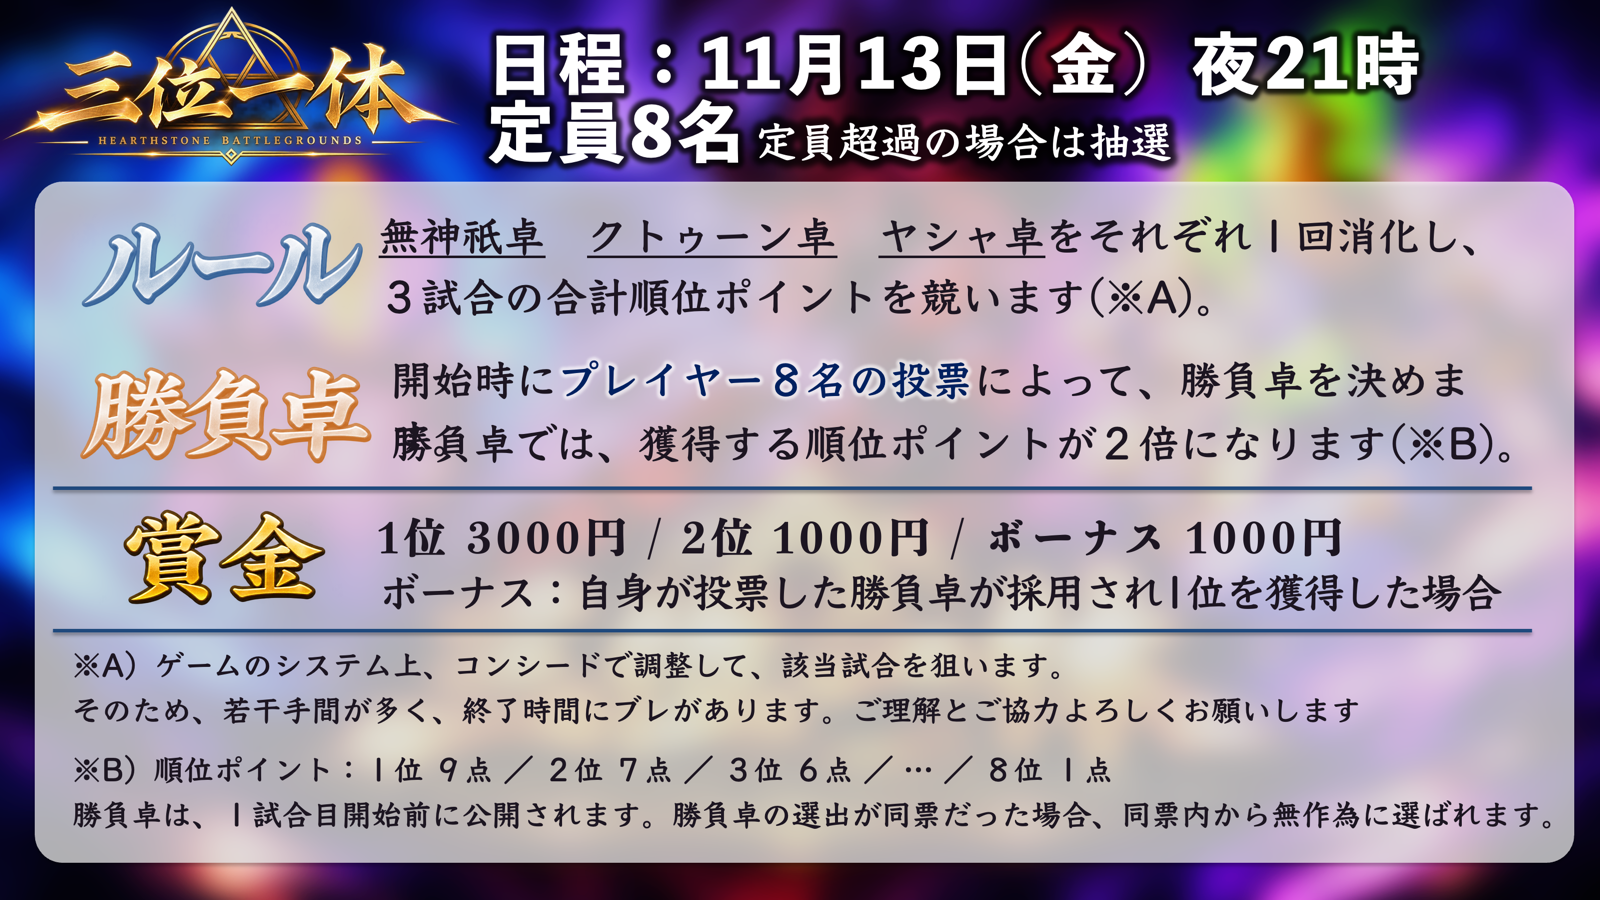
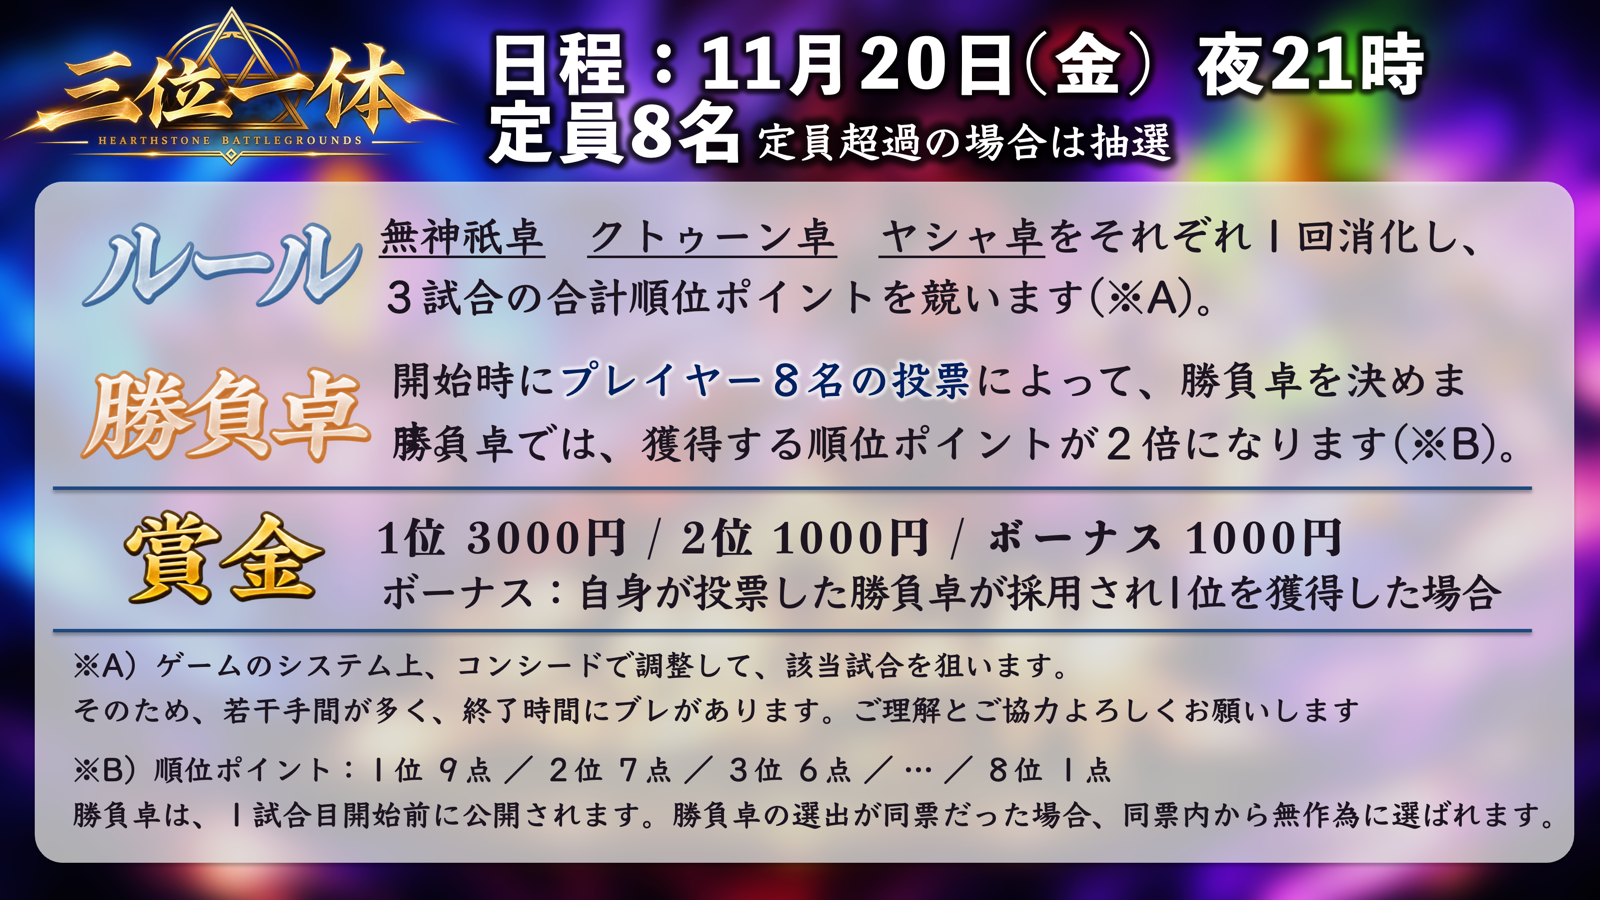
Refresh private Trinity flyers and simplify page design

diff --git a/drafts/tournaments/sanmi-ittai/index.html b/drafts/tournaments/sanmi-ittai/index.html
@@ -1,12 +1,12 @@
 <!doctype html>
-<html lang="ja"><head><meta charset="utf-8"><meta name="viewport" content="width=device-width,initial-scale=1"><title>三位一体 | Avenge Hub</title><meta name="description" content="2026年11月20日21時開催。8名で3試合の合計順位ポイントを競うバトルグラウンド大会。"><meta property="og:title" content="三位一体 | Avenge Hub"><meta property="og:image" content="https://stuntdrakesavenge.pages.dev/tournaments/sanmi-ittai/banner.png"><meta property="og:type" content="website"><meta name="twitter:card" content="summary_large_image"><link rel="stylesheet" href="../../common.css"><link rel="stylesheet" href="style.css?v=20261108-trinity-header-v2"><link rel="icon" href="/sutantic.png"></head>
+<html lang="ja"><head><meta charset="utf-8"><meta name="viewport" content="width=device-width,initial-scale=1"><title>三位一体 | Avenge Hub</title><meta name="description" content="2026年11月20日21時開催。8名で3試合の合計順位ポイントを競うバトルグラウンド大会。"><meta property="og:title" content="三位一体 | Avenge Hub"><meta property="og:image" content="https://stuntdrakesavenge.pages.dev/tournaments/sanmi-ittai/banner.png"><meta property="og:type" content="website"><meta name="twitter:card" content="summary_large_image"><link rel="stylesheet" href="../../common.css"><link rel="stylesheet" href="style.css?v=20261108-trinity-refined"><link rel="icon" href="/sutantic.png"></head>
 <body><main class="page-shell"><a class="back-link" href="/">メインページに戻る</a>
 <header class="trinity-hero"><img src="header.png" width="961" height="321" alt="三位一体 — Hearthstone Battlegrounds"><h1 class="sr-title">三位一体</h1></header>
 <section class="score-card"><h2 class="section-title">大会概要</h2><div class="section-body"><dl class="facts"><div><dt>開催日時</dt><dd>2026年11月20日（金）21:00</dd></div><div><dt>定員</dt><dd>8名 <small>定員超過の場合は抽選</small></dd></div></dl><a class="entry-button" href="/scrims/">参加申込フォームへ →</a></div></section>
 <section class="score-card"><h2 class="section-title">ルール</h2><div class="section-body"><div class="rule-columns"><article><h3>3試合の合計ポイントで勝負</h3><p>無神祇卓・クトゥーン卓・ヤシャ卓をそれぞれ1回行い、3試合の合計順位ポイントを競います。</p></article><article><h3>投票で決まる「勝負卓」</h3><p>開始時にプレイヤー8名の投票で勝負卓を決定します。勝負卓では、獲得する順位ポイントが<strong>2倍</strong>になります。</p><p>勝負卓は1試合目の開始前に公開。同票の場合は、同票の候補から無作為に選ばれます。</p></article></div><h3>順位ポイント</h3><div class="points-wrap"><table><thead><tr><th>順位</th><th>1位</th><th>2位</th><th>3位</th><th>4位</th><th>5位</th><th>6位</th><th>7位</th><th>8位</th></tr></thead><tbody><tr><th>ポイント</th><td>9</td><td>7</td><td>6</td><td>5</td><td>4</td><td>3</td><td>2</td><td>1</td></tr></tbody></table></div><p class="note">ゲームのシステム上、コンシードで調整して該当する試合を行います。そのため通常より手順が多く、終了時間が前後する場合があります。ご理解とご協力をお願いいたします。</p></div></section>
 <section class="score-card"><h2 class="section-title">賞金</h2><div class="section-body"><dl class="prizes"><div><dt>1位</dt><dd>3,000<span>円</span></dd></div><div><dt>2位</dt><dd>1,000<span>円</span></dd></div><div><dt>ボーナス</dt><dd>1,000<span>円</span></dd></div></dl><p>ボーナスは、自身が投票した勝負卓が採用され、その卓で1位を獲得した場合に贈られます。</p></div></section>
 <section class="score-card"><h2 class="section-title">参加方法</h2><div class="section-body"><p>当サイトの「スクリム」申込フォームからお申し込みください。本人確認のため、Battle.netまたはXのDMでご連絡する場合があります。</p><a class="entry-button" href="/scrims/">スクリム申込フォームへ →</a></div></section>
-<section class="score-card"><h2 class="section-title">大会フライヤー</h2><div class="section-body flyers"><img src="rules.png" alt="三位一体のルールと賞金" width="1600" height="900" loading="lazy"><img src="entry.png" alt="三位一体のエントリー方法。画像内の申込画面は操作例です。開催日は11月20日です。" width="1600" height="900" loading="lazy"><p class="note">開催日時は2026年11月20日（金）21:00に変更となりました。フライヤー内の11月13日・申込画面内の11月15日は変更前の表記です。</p></div></section>
+<section class="score-card"><h2 class="section-title">大会フライヤー</h2><div class="section-body flyers"><img src="rules.png?v=20261108" alt="三位一体のルールと賞金" width="1600" height="900" loading="lazy"><img src="entry.png?v=20261108" alt="三位一体のエントリー方法。画像内の申込画面は操作例です。開催日は11月20日です。" width="1600" height="900" loading="lazy"><p class="note">申込画面の画像内にある11月15日は操作例です。開催日時は2026年11月20日（金）21:00です。</p></div></section>
 <footer class="footer-note" data-page-updated="2026-11-08">
   <p>Stuntdrake's Avenge! / Tournament info by Stuntdrake</p>
   <p class="footer-updated">最終更新：<time datetime="2026-11-08">2026年11月8日</time></p>

diff --git a/drafts/tournaments/sanmi-ittai/style.css b/drafts/tournaments/sanmi-ittai/style.css
@@ -4,3 +4,20 @@
 .trinity-hero img{position:static;display:block;width:100%;height:auto;object-fit:contain}
 .trinity-hero::before,.trinity-hero::after{content:none}
 @media(max-width:640px){.trinity-hero{height:auto;min-height:0;border-radius:10px}}
+
+/* Restrained editorial layout for the private tournament page. */
+body{background:#11121c;color:#252333}
+.page-shell{max-width:1120px}
+.score-card{background:#f7f5f0;border:0;border-radius:0;box-shadow:none;margin:0;padding:32px 40px}
+.score-card+.score-card{border-top:1px solid #dedad3}
+h2.section-title{display:block;background:none!important;color:#292334!important;text-align:left;padding:0;margin:0 0 24px;font-size:24px;line-height:1.4;border:0;box-shadow:none;letter-spacing:.02em}
+.section-title::before,.section-title::after{display:none!important}
+.section-body{padding:0!important;color:#383340;font-size:15px;line-height:1.9}
+.facts{display:grid;grid-template-columns:1.6fr 1fr;gap:32px;margin:0 0 24px}
+.facts>div{display:block;padding:0}.facts dt{font-size:12px;letter-spacing:.08em;margin-bottom:8px;color:#827583}.facts dd{font-size:22px;line-height:1.6}.facts small{display:block;margin:4px 0 0;font-size:12px}
+.rule-columns{gap:40px;margin-bottom:28px}.section-body h3{font-size:18px;color:#342c3e}.rule-columns p{margin:0 0 12px}
+.entry-button{border-radius:4px;background:#43304f;padding:12px 24px;box-shadow:none}.entry-button:hover{background:#644376}
+.prizes{gap:28px}.prizes dt{font-size:13px}.prizes dd{font-size:38px;color:#48304f;line-height:1.2}
+.points-wrap thead{background:#403347}.points-wrap th,.points-wrap td{padding:10px 12px}.note{line-height:1.8;color:#827786}
+.flyers{gap:20px}.flyers img{border-radius:0}.trinity-hero{margin-bottom:28px}
+@media(max-width:640px){.score-card{padding:26px 20px}.facts{grid-template-columns:1fr;gap:20px}.facts dd{font-size:20px}.prizes{gap:12px}.prizes dd{font-size:26px}h2.section-title{font-size:22px}.rule-columns{gap:22px}}
